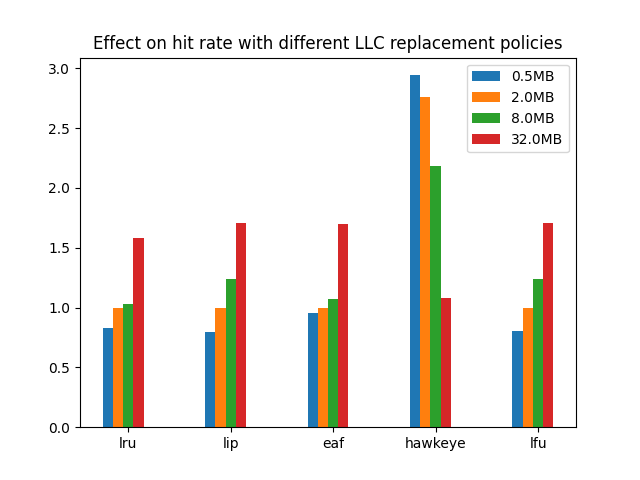
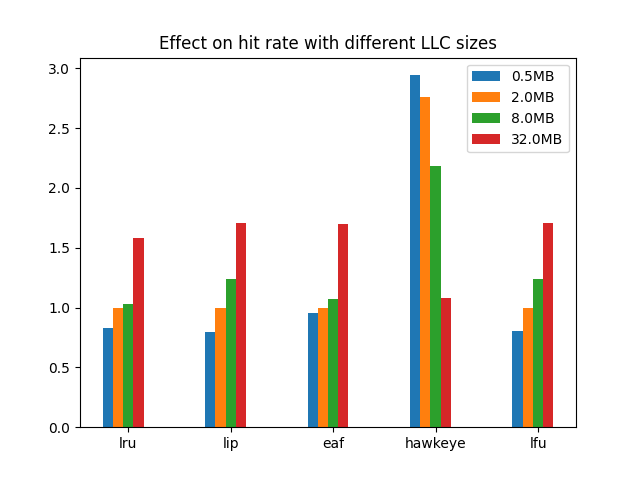
fixed name of graph

Changed region(s): [[0.125, 0.0625, 0.875, 0.125]]

diff --git a/size_plots.py b/size_plots.py
@@ -49,7 +49,7 @@ for i in range(len(TRACES)):
 
     plt.xticks(ind+ width*(len(llc_repl) - 1) /2 , llc_repl)
     plt.legend()
-    plt.title("Effect on IPC with different LLC replacement policies")
+    plt.title("Effect on IPC with different LLC sizes")
     # plt.show()
     plt.savefig(f"results/llc_set_size/pics/{TRACES[i][:-3]}_ipc.png")
     plt.close()
@@ -59,7 +59,7 @@ for i in range(len(TRACES)):
 
     plt.xticks(ind + width*(len(llc_repl) - 1) /2 , llc_repl)
     plt.legend()
-    plt.title("Effect on hit rate with different LLC replacement policies")
+    plt.title("Effect on hit rate with different LLC sizes")
     # plt.show()
     plt.savefig(f"results/llc_set_size/pics/{TRACES[i][:-3]}_hit.png")
     plt.close()
